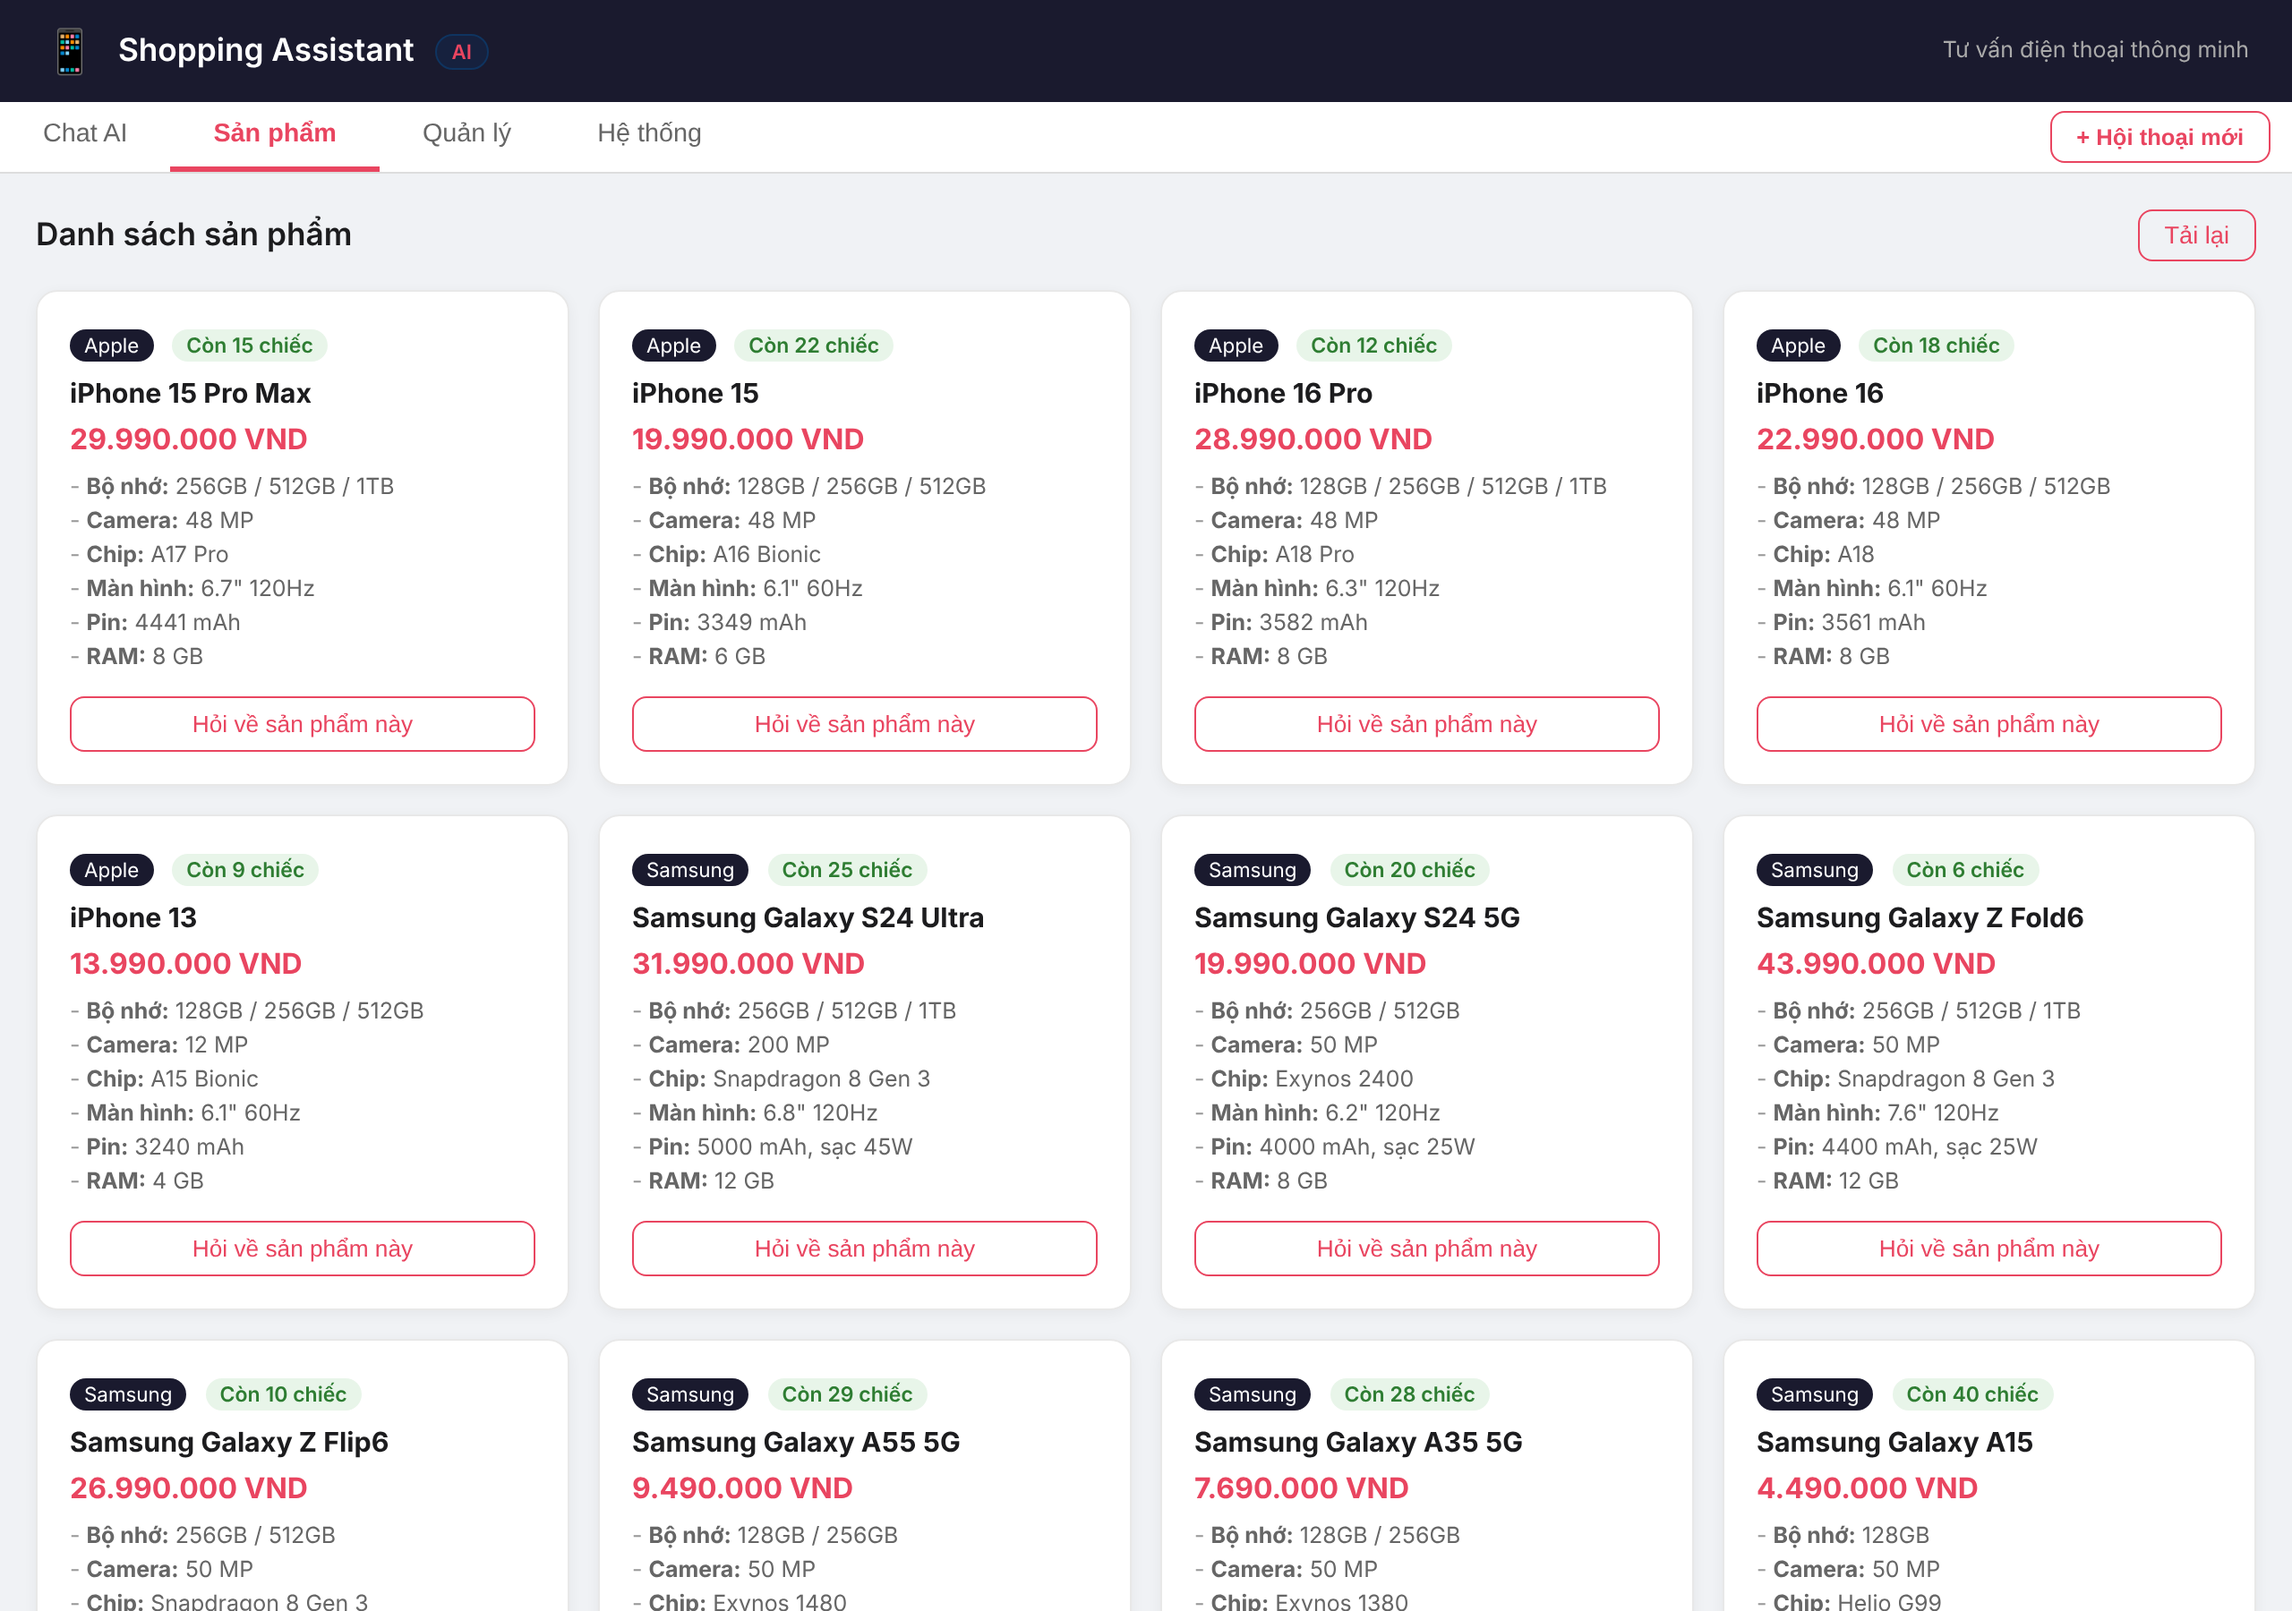
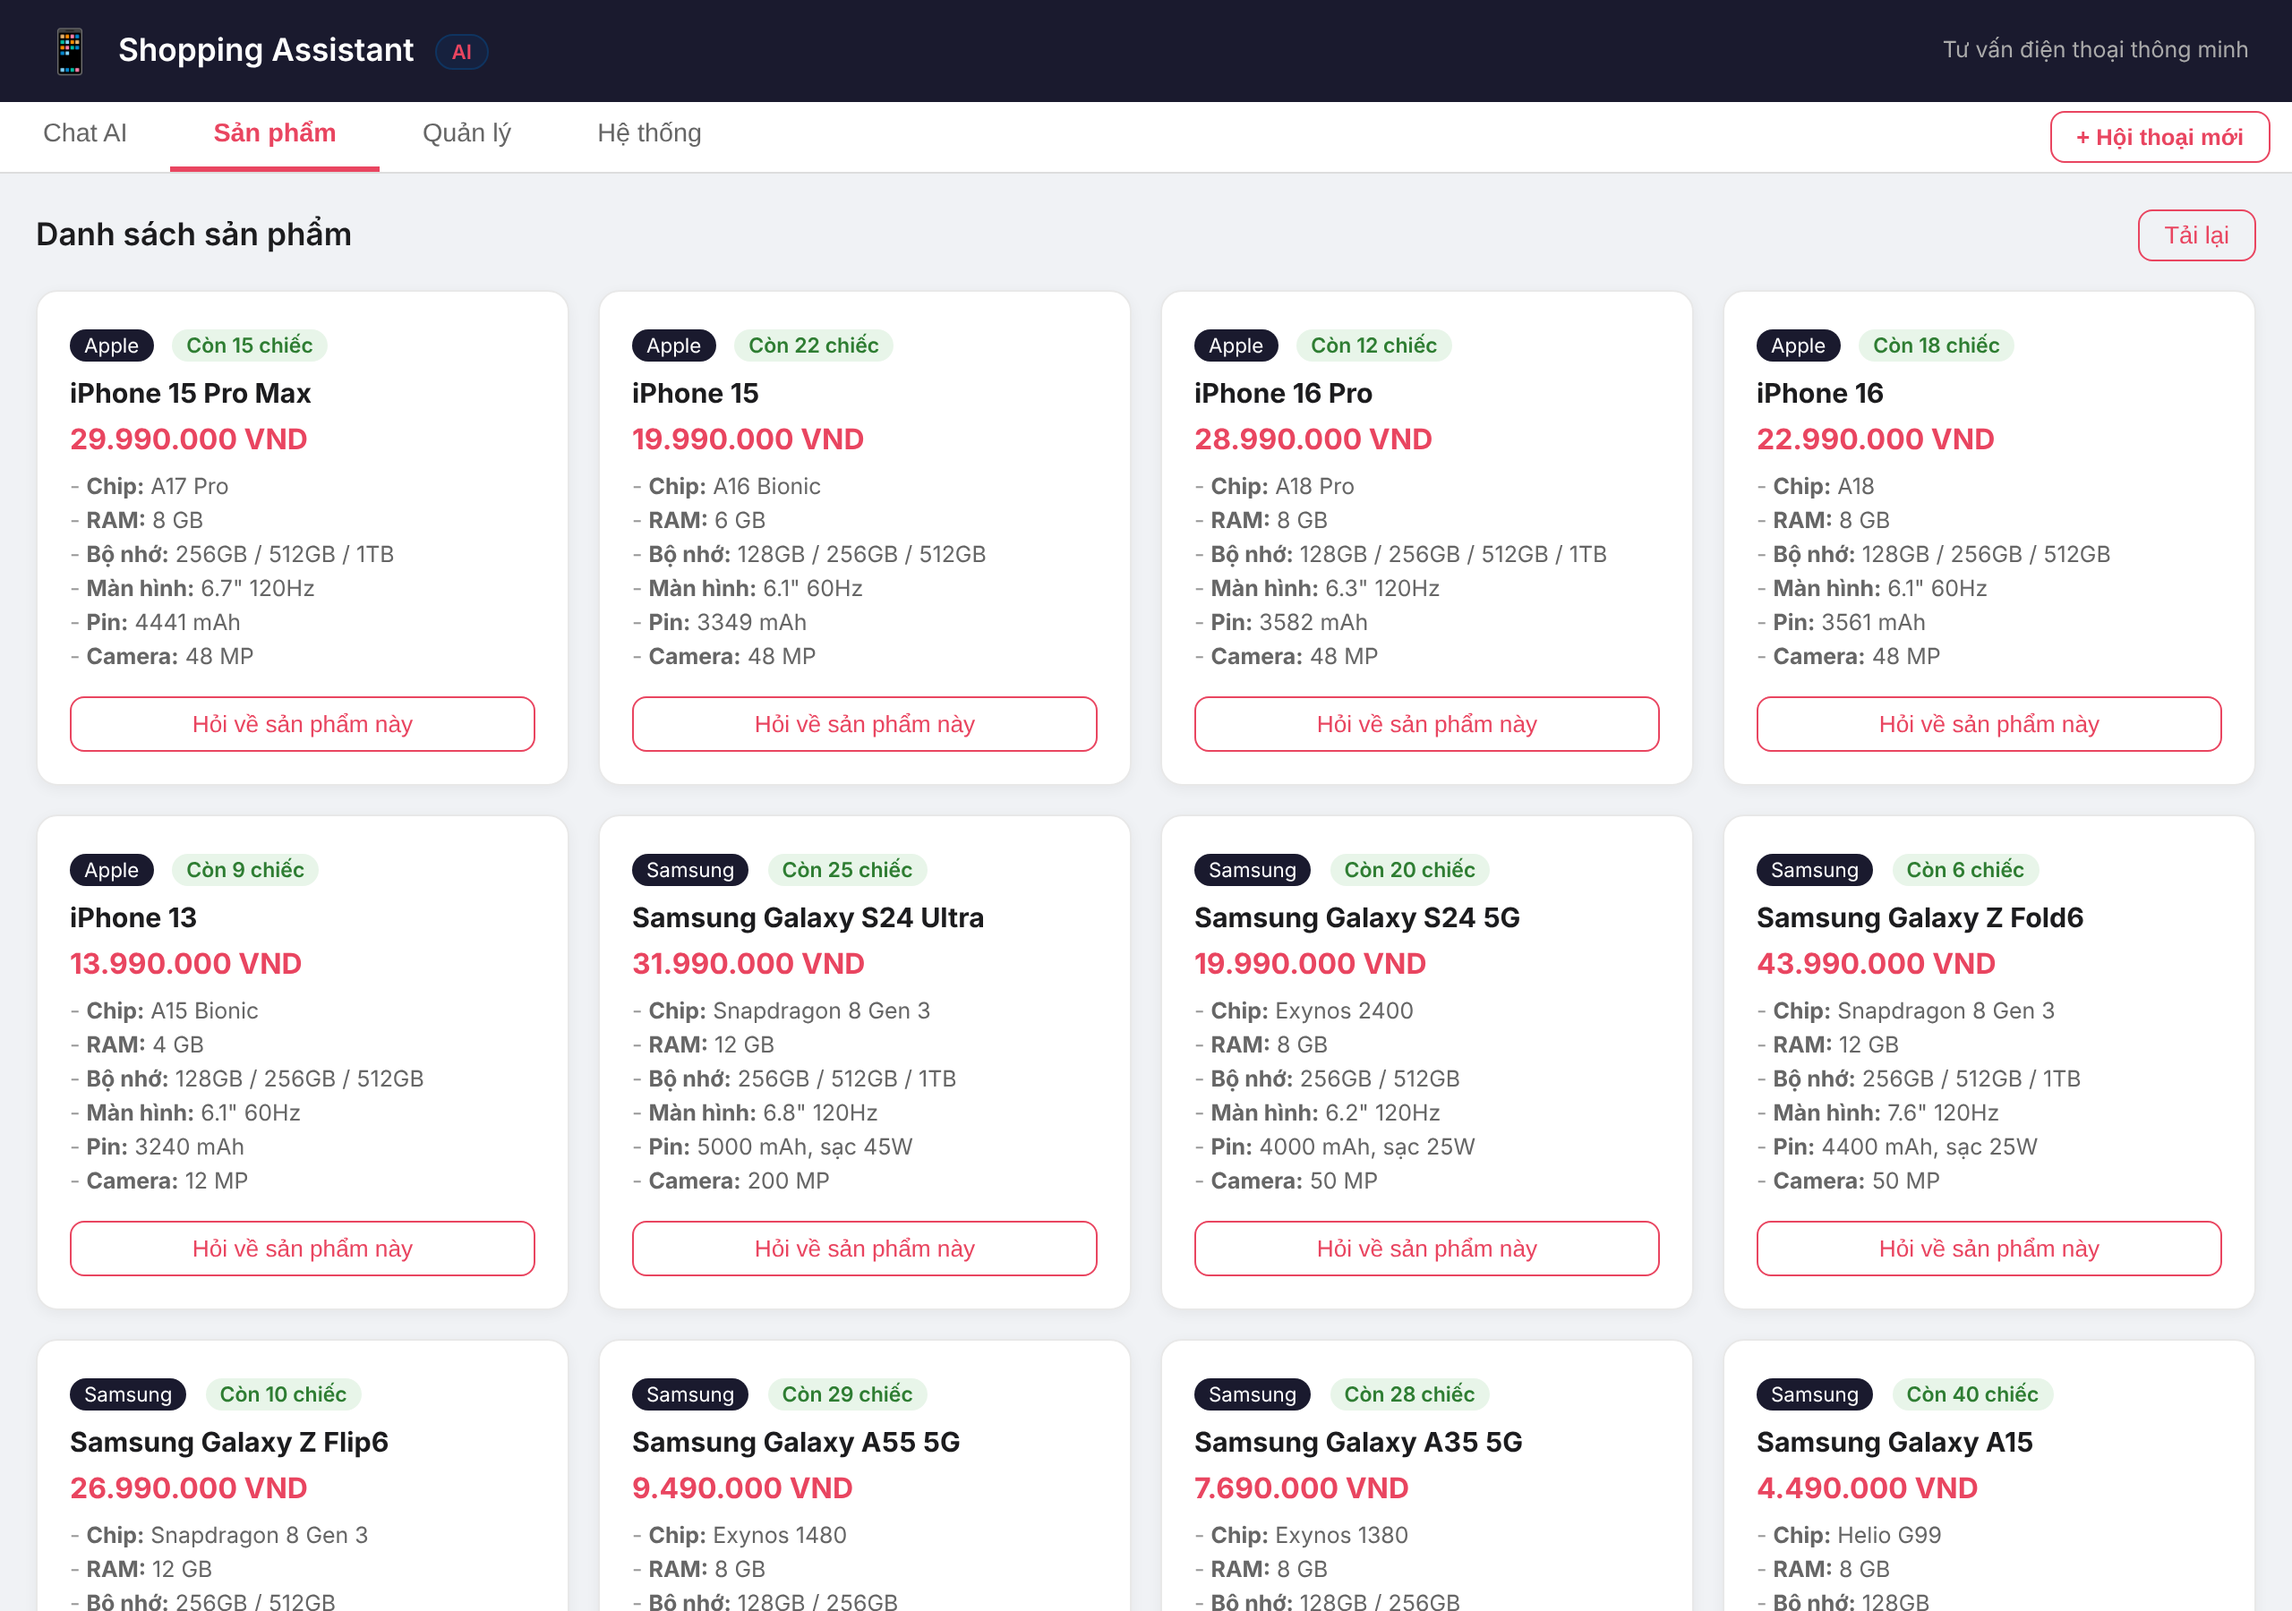
Keep spec order on product cards and show orders in the admin screenshot
Flask sorted JSON keys alphabetically, so product cards listed specs in
a random-looking order. Disable sort_keys to keep the order from the code.

diff --git a/app/__init__.py b/app/__init__.py
@@ -23,6 +23,9 @@ def create_app() -> Flask:
         template_folder=os.path.join(basedir, "templates"),
     )
 
+    # Giu thu tu key nhu trong code (vd thu tu thong so tren the san pham)
+    app.json.sort_keys = False
+
     # Khoi tao agent mot lan duy nhat
     from app.agent import ShoppingAgent
 
